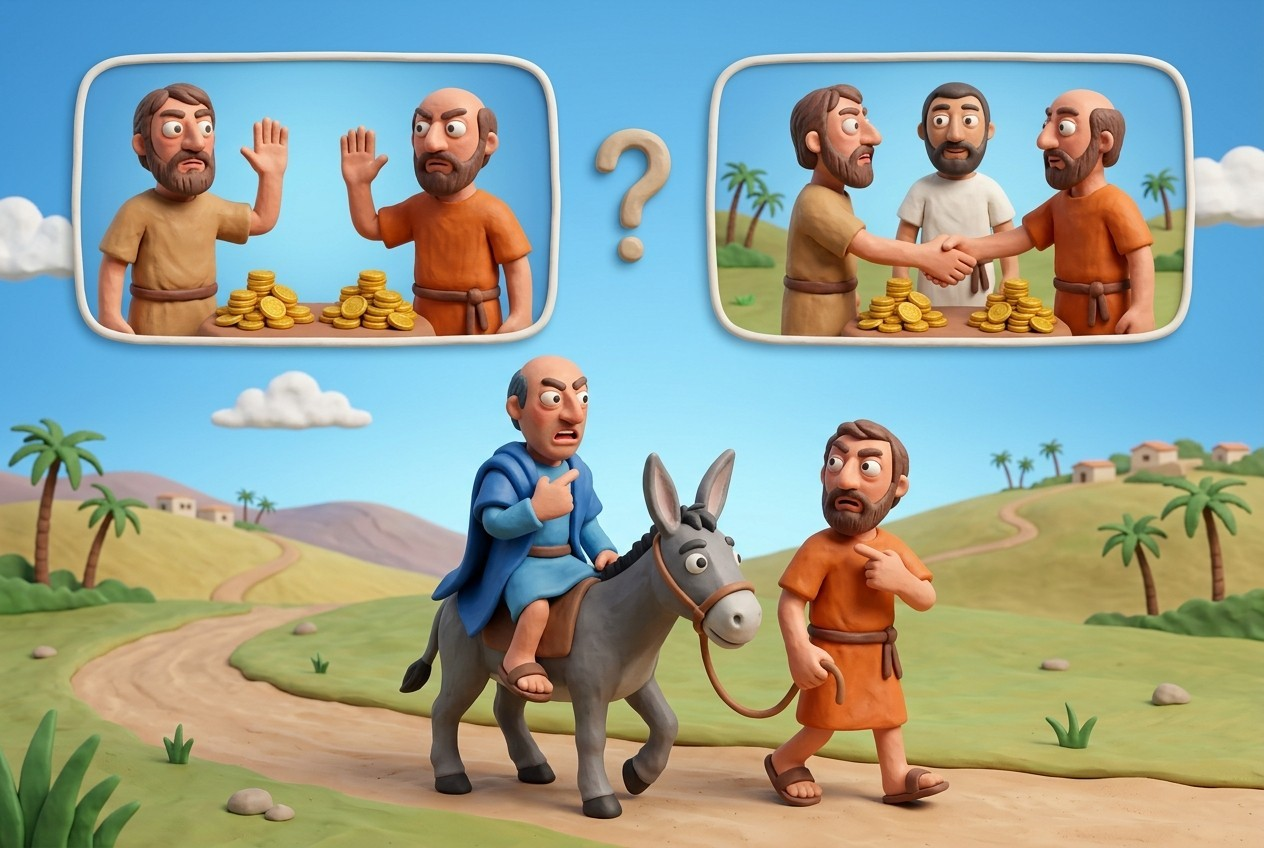
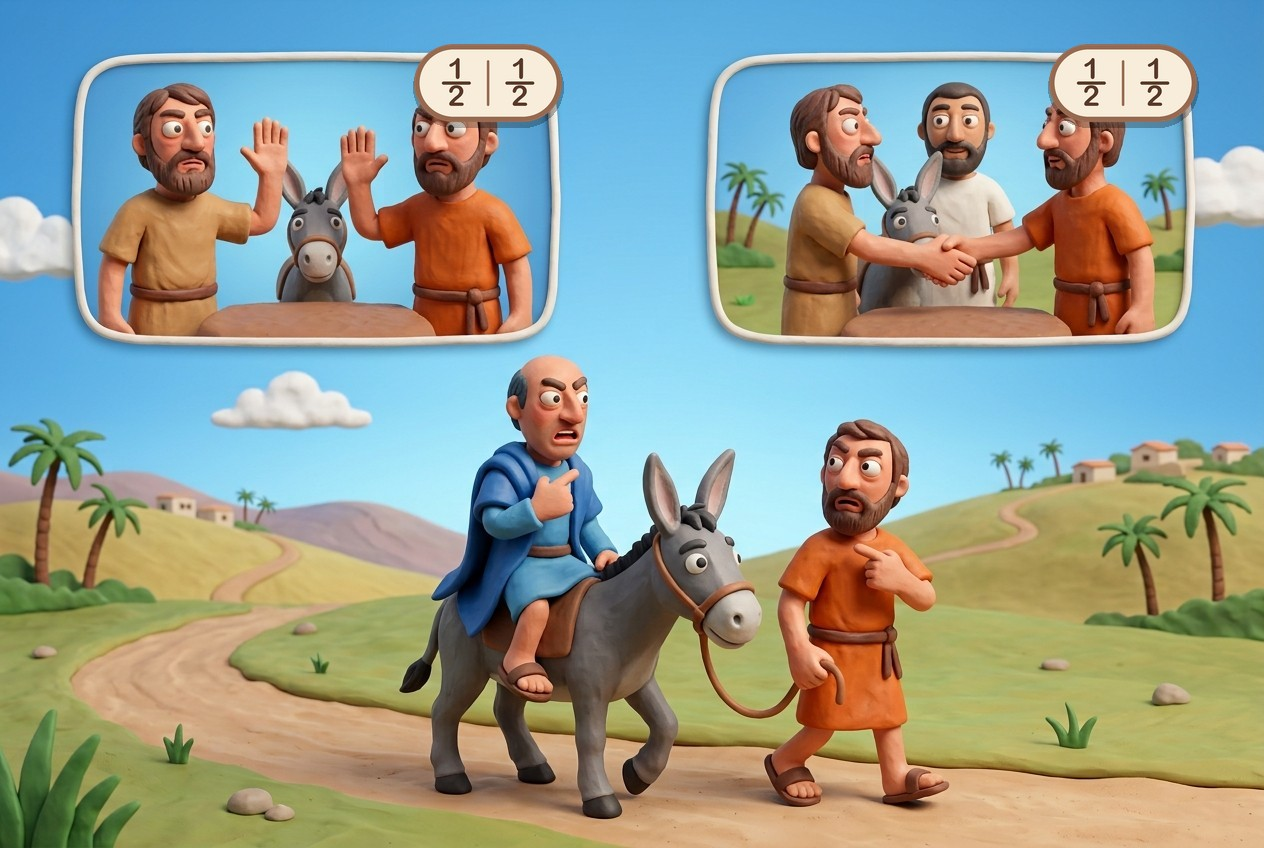
BM 1: restore 1:2 with fraction overlays; correct 1:4 (no fence); read-the-source rule

diff --git a/AnyMishnahWeb/site/bava-metzia-1.html b/AnyMishnahWeb/site/bava-metzia-1.html
@@ -75,7 +75,7 @@ h4{margin:12px 0 2px}ul{margin:0 0 4px;padding-left:22px}li{margin:3px 0}table{b
 <div class="grid"><div class="panel aids"><h4>The case</h4><ul><li>Two people are grasping a cloak, each saying &quot;I found it&quot; or &quot;it&#x27;s all mine,&quot; and neither can prove it. With no witnesses, the judges rely on an oath.</li><li>Oaths were taken very seriously, so an oath is a strong deterrent to lying.</li></ul><h4>Both claim all of it</h4><ul><li>Each swears that he owns no less than half of the cloak, and they split it.</li></ul><h4>One claims all, the other claims half</h4><ul><li>The one who says &quot;it&#x27;s all mine&quot; swears that he owns no less than three quarters; the one who says &quot;half is mine&quot; swears that he owns no less than a quarter.</li><li>The first takes three quarters and the second takes a quarter.</li></ul><div class="chart"><h4>How the cloak is divided</h4><table><tr><th>What each claims</th><th>Each swears</th><th>They divide it</th></tr><tr><td>Both say all of it</td><td>no less than half</td><td>half and half</td></tr><tr><td>One says all, the other says half</td><td>three quarters / a quarter</td><td>three quarters and a quarter</td></tr></table></div></div>
 <div class="panel text"><div class="he" lang="he" dir="rtl">שנים אוחזין בטלית. זה אומר אני מצאתיה. וזה אומר אני מצאתיה. זה אומר כולה שלי וזה אומר כולה שלי. זה ישבע שאין לו בה פחות מחציה. וזה ישבע שאין לו בה פחות מחציה ויחלוקו. זה אומר כולה שלי וזה אומר חציה שלי. האומר כולה שלי ישבע שאין לו בה פחות משלשה חלקים. והאומר חציה שלי ישבע שאין לו בה פחות מרביע. זה נוטל שלשה חלקים וזה נוטל רביע: </div><div class="en">If two people are grasping a cloak: One says, “I found it” and the other says, “I found it”, or one says “It’s all mine”, and the other says, “It’s all mine”, they each swear that they don’t own less than half of the cloak and they split the cloak. one says, “It’s all mine” and the other says, “It’s half mine”, the one who says, “It’s all mine” swears that he doesn’t own less than ¾ and the one who says “It’s half mine” swears that he doesn’t own less than ¼, and the former takes ¾ and the latter takes ¼.</div><figure class="pic"><img src="img/bm1-1a.jpg" alt="Both claim all of it: they swear, and divide it in half." loading="lazy"><figcaption>Both claim all of it: they swear, and divide it in half.</figcaption></figure><figure class="pic"><img src="img/bm1-1b.jpg" alt="One claims all, the other half: three quarters and a quarter." loading="lazy"><figcaption>One claims all, the other half: three quarters and a quarter.</figcaption></figure><details><summary>R. Kulp's commentary</summary><p><b>Mishnah One</b> 1)	If two people are grasping a cloak:  One says, “I found it” and the other says, “I found it”, or one says “It’s all mine”, and the other says, “It’s all mine”, they each swear that they don’t own more than half of the cloak and they split the cloak. 2)	(If) one says, “It’s all mine” and the other says, “It’s half mine”, the one who says, “It’s all mine” swears that he doesn’t own less than ¾ and the one who says “It’s half mine” swears that he doesn’t own less than half, and the former takes ¾ and the latter takes ¼.</p><p><b>Explanation—Mishnah One</b> This Mishnah describes the common situation in which two people claim ownership of an article and neither can prove that it belongs to him.  If they were to bring witnesses the judges would rule according to their testimony.  In the absence of witnesses the judges must rule based on other assumptions.  The means of ensuring that the person was telling the truth was in many cases, including this one, an oath.  One should note that oaths were taken extremely seriously by Jews in ancient times and the assumption is that one would not swear falsely.  Therefore taking an oath is a strong deterrent to lying. <b>Mishnah Two</b> 1)	If two men were riding on an animal, or one was riding and the other was leading the animal, and one of them said, “The animal is all mine”, and the other said “It is all mine.”, they each swear that they don’t own less than half of the animal and they split it.   2)	If after the case is settled, they both admit to the others claim, or if there are witnesses they can split the animal without an oath.</p><p><b>Explanation—Mishnah Two</b> This mishnah is similar to the previous mishnah and just deals with a different disputed object.  In the second clause the mishnah states that if they agree to the other party’s claim or if there are witnesses that the animal is owned by both parties, they split the animal without an oath.  The function of the oath is to ensure that the person is telling the truth.  When there is no dispute, or when there are witnesses who testify, there is no need for an oath.  Since it is preferable to avoid oaths altogether the two may split the animal without an oath.</p><p><b>Questions for Further Thought:</b>   •	Mishnah one:  When a person claims that the entire cloak is his, why does he swear that he doesn’t own less than half?  What would happen if each person swore that it was all his?  •	Mishnah one:  Why in the second clause does the person who swore that it was all his receive ¾ whereas in the first clause he receives only ½? <b>If two people are grasping a cloak:  One says, “I found it” and the other says, “I found it”, or one says “It’s all mine”, and the other says, “It’s all mine”, they each swear that they don’t own more than half of the cloak and they split the cloak. ( one says, “It’s all mine” and the other says, “It’s half mine”, the one who says, “It’s all mine” swears that he doesn’t own less than ¾ and the one who says “It’s half mine” swears that he doesn’t own less than ¼, and the former takes ¾ and the latter takes ¼.</b> The first two mishnayoth of Bava Metzia deal with cases where two people both claim ownership over an object which they are jointly holding. This Mishnah describes the common situation in which two people claim ownership of an article and neither can prove that it belongs to him.  If they were to bring witnesses the judges would rule according to their testimony.  In the absence of witnesses the judges must rule based on other assumptions.  The means of ensuring that the person was telling the truth was in many cases, including this one, an oath.  One should note that oaths were taken extremely seriously by Jews in ancient times and the assumption is that one would not swear falsely.  Therefore taking an oath is a strong deterrent to lying.</p></details></div></div></section><section id="m2"><h2>Mishnah 2: Two men and a donkey</h2><p class="sum">Two men on one animal each say it is all theirs: they swear and split its value. If they agree or there are witnesses, no oath is needed.</p>
 <div class="grid"><div class="panel aids"><h4>The case</h4><ul><li>Two men were riding on an animal, or one was riding and the other leading it. Each says it is all his.</li><li>Each swears that he owns no less than half, and they split it.</li></ul><h4>No oath needed</h4><ul><li>If after the case is settled they both admit the other&#x27;s claim, or there are witnesses, they split the animal without an oath.</li><li>The oath only ensures the person is telling the truth; when nobody disputes it, or witnesses testify, there is no need, and it is better to avoid oaths.</li></ul><div class="chart"><h4>Splitting the animal</h4><table><tr><th>Situation</th><th>Oath?</th><th>Result</th></tr><tr><td>Each claims all of it</td><td>Each swears</td><td>They split it</td></tr><tr><td>They later admit each other&#x27;s claim, or there are witnesses</td><td>No oath</td><td>They split it</td></tr></table></div></div>
-<div class="panel text"><div class="he" lang="he" dir="rtl">היו שנים רוכבין על גבי בהמה או שהיה אחד רוכב ואחד מנהיג. זה אומר כולה שלי וזה אומר כולה שלי. זה ישבע שאין לו בה פחות מחציה וזה ישבע שאין לו בה פחות מחציה ויחלוקו. בזמן שהם מודים או שיש להן עדים. חולקים בלא שבועה: </div><div class="en">If two men were riding on an animal, or one was riding and the other was leading the animal, and one of them said, “The animal is all mine”, and the other said “It is all mine.”, they each swear that they don’t own less than half of the animal and they split it. If after the case is settled, they both admit to the others claim, or if there are witnesses they can split the animal without an oath.</div></div></div></section><section id="m3"><h2>Mishnah 3: Lost property seen from a donkey</h2><p class="sum">A claim of ownership has to come when you hold the object, not after you have already given it away.</p>
+<div class="panel text"><div class="he" lang="he" dir="rtl">היו שנים רוכבין על גבי בהמה או שהיה אחד רוכב ואחד מנהיג. זה אומר כולה שלי וזה אומר כולה שלי. זה ישבע שאין לו בה פחות מחציה וזה ישבע שאין לו בה פחות מחציה ויחלוקו. בזמן שהם מודים או שיש להן עדים. חולקים בלא שבועה: </div><div class="en">If two men were riding on an animal, or one was riding and the other was leading the animal, and one of them said, “The animal is all mine”, and the other said “It is all mine.”, they each swear that they don’t own less than half of the animal and they split it. If after the case is settled, they both admit to the others claim, or if there are witnesses they can split the animal without an oath.</div><figure class="pic"><img src="img/bm1-2.jpg" alt="Two men, one donkey, both claiming it. Left: they swear. Right: they agree, with a witness, and no oath is needed. Either way they split it half and half." loading="lazy"><figcaption>Two men, one donkey, both claiming it. Left: they swear. Right: they agree, with a witness, and no oath is needed. Either way they split it half and half.</figcaption></figure></div></div></section><section id="m3"><h2>Mishnah 3: Lost property seen from a donkey</h2><p class="sum">A claim of ownership has to come when you hold the object, not after you have already given it away.</p>
 <div class="grid"><div class="panel aids"><h4>Acquiring it</h4><ul><li>A man was riding on a beast and saw lost property and said to his friend, &quot;Give it to me.&quot; The friend picked it up and said &quot;I have acquired it&quot;: he has acquired it.</li></ul><h4>Too late</h4><ul><li>But if he first handed it to the rider and only then said &quot;I acquired it first,&quot; he has said nothing.</li><li>The claim to ownership must come at the same time that he actually has possession, not after he has already given it to someone else.</li></ul><div class="chart"><h4>Who keeps the lost object?</h4><table><tr><th>What the friend does</th><th>Result</th></tr><tr><td>Picks it up and says &quot;I acquired it&quot;</td><td>He acquires it</td></tr><tr><td>Gives it to the rider, then says &quot;I had it first&quot;</td><td>His words mean nothing</td></tr></table></div></div>
 <div class="panel text"><div class="he" lang="he" dir="rtl">היה רוכב על גבי בהמה וראה את המציאה. ואמר לחברו תנה לי. נטלה ואמר אני זכיתי בה. זכה בה. אם משנתנה לו אמר אני זכיתי בה תחלה. לא אמר כלום: </div><div class="en">If a man was riding on a beast and saw lost property and said to his fellow, “Give it to me”, and the other took it and said, “I have acquired it”, he (the other) has acquired it. But if after he gave it to him he said, “I acquired it first”, he has said nothing.</div><figure class="pic"><img src="img/bm1-3a.jpg" alt="He picked it up and said he acquired it: it is his." loading="lazy"><figcaption>He picked it up and said he acquired it: it is his.</figcaption></figure><figure class="pic"><img src="img/bm1-3b.jpg" alt="He handed it to the rider and only then claimed it: his claim means nothing." loading="lazy"><figcaption>He handed it to the rider and only then claimed it: his claim means nothing.</figcaption></figure><details><summary>R. Kulp's commentary</summary><p><b>If a man was riding on a beast and saw lost property and said to his fellow, “Give it to me”, and the other took it and said, “I have acquired it”, he (the has acquired it. But if after he gave it to him he said, “I acquired it first”, he has said nothing.</b> In the first section of the mishnah a person saw an object while riding on an animal and told his friend to pick it up for him.  When his friend picked it up he claimed it for himself.  According to the mishnah the person who picked it up can claim title to the object.  If, however, the person picked it up and then gave it to his fellow, he cannot subsequently claim title.  The person’s claim to ownership must come at the same time that he actually has possession of the object and not after he has already given it to someone else.</p><p><b>Questions for Further Thought:</b> Mishnah three:  According to the mishnah by merely telling the other person to pick it up for him the person riding on the animal does not acquire the object.  Why not?</p></details></div></div></section><section id="m4"><h2>Mishnah 4: Seizing lost property, and the field that acquires</h2><p class="sum">Someone who falls on a lost object loses it to whoever seizes it first. A field can acquire an animal that cannot leave it.</p>
 <div class="grid"><div class="panel aids"><h4>Falling on it</h4><ul><li>If a man saw lost property and fell upon it, and someone else came and seized it, the one who seized it acquired it.</li></ul><h4>&quot;My field acquires it&quot;</h4><ul><li>He saw people running in his field after lost property, such as a deer with a broken leg or pigeons that cannot fly, and said &quot;my field acquires it&quot;: he has acquired it.</li><li>But if the deer was running normally or the pigeons flying, and he said it, he has said nothing.</li></ul><h4>Three conditions</h4><ul><li>Others have not yet claimed it, the animal is physically unable to leave the field, and the owner of the field claims it.</li></ul><div class="chart"><h4>Does the field acquire it?</h4><table><tr><th>The animal</th><th>Result</th></tr><tr><td>Deer with a broken leg, or pigeons that cannot fly</td><td>The field acquires it</td></tr><tr><td>A deer running normally, or pigeons flying</td><td>He has said nothing</td></tr></table></div></div>

diff --git a/AnyMishnahWeb/data/bava_metzia_1_prompts_v3.md b/AnyMishnahWeb/data/bava_metzia_1_prompts_v3.md
@@ -1,19 +1,15 @@
 # Bava Metzia 1, clay prompts v3 (2026-10-09): fixes after the author's picture review
 
 RULES: pairs are ALWAYS made in the same chat as an edit of the first picture. The '?' between boxes appears ONLY when the boxes are two possible explanations of one unknown fact (1:7); never where the boxes are separate rulings (1:2). No coins or money to stand for splitting (fractions are added as overlays). Where the mishnah says something cannot move or leave, the picture must make that physically obvious (enclosed field, closed gate). Different people in the same picture must look different from each other, so each distinct person gets his own clothes, beard or cap in the prompt (the same person looks the same wherever he appears).
-Redo: 1:2 (one edit line), 1:4 pair, 1:5 pair (now two SCENES, no main picture, no boxes, no question mark), 1:7. The 1:1 and 1:3 pairs are good (1:1 now carries fraction overlays).
+Status: 1:2 DONE (good), 1:5a DONE (good). Still to make: 1:4 pair (corrected: no fence; the deer cannot leave because of its broken leg), 1:5b (edit of 1:5a), 1:7. The 1:1 and 1:3 pairs are good (1:1 now carries fraction overlays).
 
-## 1:2 (donkey and two men): fix the existing picture. Ask in the SAME chat as the original
+## 1:4a (FIRST of the pair; the deer cannot leave because of its broken leg). A fresh chat
 
-Using the previous picture as reference, everything is exactly the same except: in both boxes remove the heaps of gold coins and instead show the grey donkey standing between the two men; remove the question mark between the boxes; there are no coins and no question mark anywhere in the picture. Keep the raised right hands in the left box and the handshake with the witness in the right box.
-
-## 1:4a (FIRST of the pair; the deer cannot leave the field). A fresh chat
-
-Illustration for a children's and family Mishnah study site, in the style of hand-modelled plasticine clay figures with exaggerated expressive faces, fingerprint texture, soft studio lighting, 3:2 wide format. No letters or words anywhere in the image, and no numerals. Every figure has a full face with eyes, nose and mouth. Land of Israel, 1st-century setting, simple tunics and cloaks, scrolls and never bound books. Gentle for children: no blood or open wounds. The sky or backdrop fills the whole background; no white background. Draw ONLY the people, animals and objects named in this prompt, and exactly the number named of each. Do NOT draw any badge, scale, coins, money or symbol of ownership, payment or splitting; those are added later. Cast, identical in both pictures of this pair: the field's owner wears a brown tunic and a straw hat and has a round face and a grey moustache; two chasers wear a yellow and a purple tunic. Scene: a field completely enclosed by a stone wall and a wooden fence on every side, with one wooden gate that is firmly CLOSED; there is no path or gap leading out of the field. A deer with a neat white bandage on a broken front leg stands in the middle of the field, far from the gate, unable to go anywhere. The two chasers run toward it inside the field; the owner stands near it with one hand pressed to his chest, calling out confidently. Exactly one deer.
+Illustration for a children's and family Mishnah study site, in the style of hand-modelled plasticine clay figures with exaggerated expressive faces, fingerprint texture, soft studio lighting, 3:2 wide format. No letters or words anywhere in the image, and no numerals. Every figure has a full face with eyes, nose and mouth. Land of Israel, 1st-century setting, simple tunics and cloaks, scrolls and never bound books. Gentle for children: no blood or open wounds. The sky or backdrop fills the whole background; no white background. Draw ONLY the people, animals and objects named in this prompt, and exactly the number named of each. Do NOT draw any badge, scale, coins, money or symbol of ownership, payment or splitting; those are added later. Cast, identical in both pictures of this pair: the field's owner wears a brown tunic and a straw hat and has a round face and a grey moustache; two chasers wear a yellow tunic and a purple tunic. Scene: an open grassy field on a hillside with a few olive trees, with NO fence, wall or gate. A single deer lies on the grass on its side with a neat wooden splint and white bandage on a broken front leg; it cannot stand up or get away. The two chasers run toward it from the far side of the field; the owner stands close to the deer with one hand pressed to his chest, calling out confidently. Exactly one deer.
 
 ## 1:4b (SECOND of the pair: SAME chat, edit of 1:4a)
 
-Using the previous picture as reference, everything is exactly the same except: the wooden gate now stands wide open; the deer is healthy, with no bandage, and is bounding toward the open gate; a flock of pigeons flies overhead.
+Using the previous picture as reference, everything is exactly the same except: the deer is now healthy, with no splint or bandage, and is bounding away across the field toward the open hills; a flock of pigeons flies overhead; the same two chasers run after it, and the owner stands with one hand on his chest.
 
 ## 1:5a (FIRST of the pair; the child's find goes to the father). A fresh chat
 

diff --git a/AnyMishnahWeb/CLAUDE.md b/AnyMishnahWeb/CLAUDE.md
@@ -95,3 +95,5 @@ ABSOLUTE RULE (author): paired scenes are always made in the same chat/call chai
 Site now has two chapters: /bava-kamma-5 and /bava-metzia-1 (build_site.py is multi-chapter: `build(data, layer1, diagrams, title, sub, outfile, legend)`). BM 1: 9 pictures (6 clean first try; the 1:3 pair and 1:5 redone once: now good, 1:5 has a small bound book on the table, redo line: 'Using the previous picture as reference, everything is exactly the same except: replace the book on the table with a rolled scroll'), SVGs for 1:5, 1:6, 1:8. Interim round badges (keeps, noclaim, noreturn, return, hold, follow) were drawn with PIL, NOT clay: replace with clay masters (author to generate) and recompose with scripts/compose_bm1.py. Checker config records the author's accepted verdicts. Decision (author): keep generating pictures by hand in the Gemini app for now; move to the API when a chapter or two pass ~80% first try, symbols are settled, and volume makes hand work the bottleneck; test the API's output against the app's first (the models may differ).
 
 Round 8 (author's review of BM 1): see STYLE_BIBLE.md 'Round 8'. Redo prompts: data/bava_metzia_1_prompts_v3.md (1:2 edit line, 1:4 pair, 1:5 pair as two scenes, 1:7 with distinct cast). Fraction overlays live in scripts/fraction_badge.py and compose_bm1_fractions.py (applied to 1:1a/1:1b). 1:2, 1:4, 1:5, 1:7 pictures are hidden on the site (layer1 keys prefixed _pending_) until the redos arrive; restore by renaming the keys.
+
+RULE (author): read R. Kulp's commentary (and later Kehati) on a mishnah BEFORE writing its brief/prompt; take the condition from the source exactly and add no mechanism it does not state (see STYLE_BIBLE.md). BM 1:4 was wrong for this reason; corrected prompts in data/bava_metzia_1_prompts_v3.md. Status: 1:2 and 1:5a good (1:2 carries half|half overlays); remaining: 1:4 pair, 1:5b, 1:7.

diff --git a/AnyMishnahWeb/STYLE_BIBLE.md b/AnyMishnahWeb/STYLE_BIBLE.md
@@ -116,3 +116,6 @@ By eye at full size, clean on the first try: 1:1a, 1:1b, 1:2, 1:4a, 1:4b, 1:7 (6
 - **Different people in the same picture must look different from each other** (1:7: the finder and the people in the boxes looked identical): give each distinct person a different tunic color, beard, cap or hair. The converse holds too: the same person must look the same wherever he appears (main scene and boxes, or the two pictures of a pair).
 - **Legend wording is parallel**: 'pays / does not pay', 'keeps it / has no claim', 'returns it / does not return it', 'holds it', 'follows the postscript'.
 - Pictures flagged by the author are hidden from the site until redone (1:2, 1:4 pair, 1:5, 1:7).
+
+## RULE: read the source commentary before writing a brief; never add a mechanism the source does not state (author, 2026-10-09)
+Before drafting any brief or prompt, read R. Kulp's commentary on that mishnah (and Kehati once available) and take the legal condition from it exactly. Do not invent physical details to dramatize a condition. Example (BM 1:4): Kulp's condition is that the animal is physically unable to leave the field; I wrongly added a fenced field and a closed gate, so the deer could not have got in and the scene looked like a circle dance. The correct picture shows the ANIMAL's inability (a deer with a splinted leg lying on the grass) and the contrast (a healthy deer bounding away); no fence appears anywhere. Check each brief by asking: 'where does the source say this?'
